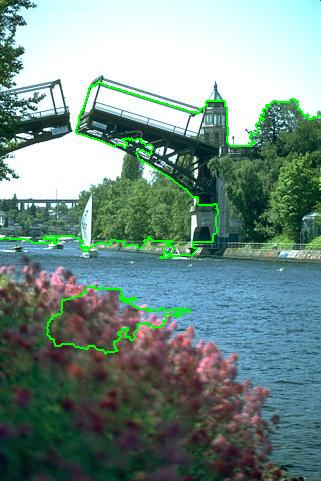
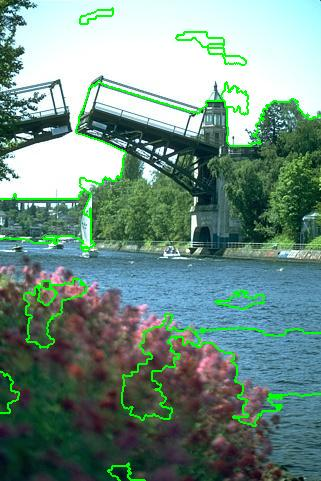
added fitness calculation

diff --git a/src/utils/Euclidian.java b/src/utils/Euclidian.java
@@ -2,6 +2,7 @@ package utils;
 
 import java.awt.Color;
 import java.util.ArrayList;
+import java.util.HashMap;
 import java.util.HashSet;
 import java.util.Iterator;
 import java.util.List;
@@ -11,11 +12,13 @@ public class Euclidian {
 	private int width;
 	private int height;
 	private Color[][] pixels;
+	private Color[] listPixels;
 	
-	public Euclidian(int width, int height, Color[][] pixels){
+	public Euclidian(int width, int height, Color[][] pixels, Color[] listPixels){
 		this.width = width;
 		this.height = height;
 		this.pixels = pixels;
+		this.listPixels = listPixels;
 	}
 	
 	public List<Integer> getNeighborNumbers(Integer gene){
@@ -56,6 +59,59 @@ public class Euclidian {
 		return edgeGenes;
 	}
 	
+	//returns both edge value and connectivity objectives//
+	//uses L = 4 for connectivity//
+	public float[] getSegEdgeAndConnValue(HashSet<Integer> segment, HashSet<Integer> edgeSet){
+		float[] segmentObjValues = new float[2];
+		for (Integer gene : edgeSet) {
+			int penalty = 0;
+			List<Integer> neighbors = getNeighborNumbers(gene);
+			for (Integer neighbor : neighbors) {
+				if(!segment.contains(neighbor)){
+					Color edgeColor = this.listPixels[gene];
+					Color neighborColor = this.listPixels[neighbor];
+					segmentObjValues[0] += getRGBEuclid(edgeColor, neighborColor);
+					penalty +=1;
+					segmentObjValues[1] += 1/penalty;
+				}
+			}
+		}
+		return segmentObjValues;
+	}
+	
+	public float getSegmentEdgeValue(HashSet<Integer> segment, HashSet<Integer> edgeSet){
+		float segmentEdgeValue = 0;
+		for (Integer gene : edgeSet) {
+			List<Integer> neighbors = getNeighborNumbers(gene);
+			for (Integer neighbor : neighbors) {
+				if(!segment.contains(neighbor)){
+					Color edgeColor = this.listPixels[gene];
+					Color neighborColor = this.listPixels[neighbor];
+					segmentEdgeValue += getRGBEuclid(edgeColor, neighborColor);
+				}
+			}
+		}
+		return segmentEdgeValue;
+	}
+	
+	public float[] getChromosomeEdgeAndConn(List<HashSet<Integer>> segments, HashMap<HashSet<Integer>, HashSet<Integer>> edgeMap){
+		float[] totObjValues = new float[2];
+		for (HashSet<Integer> segment : segments) {
+			float[] segValues = getSegEdgeAndConnValue(segment, edgeMap.get(segment));
+			totObjValues[0] += segValues[0];
+			totObjValues[1] += segValues[1];
+		}
+		return totObjValues;
+	}
+	
+	public float getChromosomeEdgeValue(List<HashSet<Integer>> segments, HashMap<HashSet<Integer>, HashSet<Integer>> edgeMap){
+		float totEdgeValue = 0;
+		for (HashSet<Integer> segment : segments) {
+			totEdgeValue += getSegmentEdgeValue(segment, edgeMap.get(segment));
+		}
+		return totEdgeValue;
+	}
+	
 	public static float getRGBEuclid(Color RGBone, Color RGBtwo){
 		
 		int rOne = RGBone.getRed();
@@ -67,12 +123,13 @@ public class Euclidian {
 		return (float)Math.sqrt(Math.pow((rTwo-rOne), 2) + Math.pow((gTwo-gOne),2) + Math.pow((bTwo-bOne),2));
 	}
 	
-	public float getRGBdeviation(HashSet<Integer> segment, Color centroid){
+	public float getSegmentRGBdeviation(HashSet<Integer> segment, Color centroid){
 		float deviation = 0;
 		for (Iterator<Integer> iterator = segment.iterator(); iterator.hasNext();) {
 			Integer integer = (Integer) iterator.next();
-			int[] coords = toGridCoords(integer);
-			deviation += getRGBEuclid(this.pixels[coords[0]][coords[1]],centroid);
+//			int[] coords = toGridCoords(integer);
+//			deviation += getRGBEuclid(this.pixels[coords[0]][coords[1]],centroid);
+			deviation += getRGBEuclid(listPixels[integer], centroid);
 		}
 		return deviation;
 	}
@@ -80,8 +137,10 @@ public class Euclidian {
 	public Color getRGBCentroid(HashSet<Integer> segment){
 		int[] RGBsums = new int[3];
 		for (Integer point : segment) {
-			int[] coords = toGridCoords(point);
-			Color pointCol = this.pixels[coords[0]][coords[1]];
+//			int[] coords = toGridCoords(point);
+//			Color pointCol = this.pixels[coords[0]][coords[1]];
+//			System.out.println(point);
+			Color pointCol = this.listPixels[point];
 			RGBsums[0] += pointCol.getRed();
 			RGBsums[1] += pointCol.getGreen();
 			RGBsums[2] += pointCol.getBlue();

diff --git a/src/mst/FileHandler.java b/src/mst/FileHandler.java
@@ -11,9 +11,10 @@ import javax.imageio.ImageIO;
 public class FileHandler {
 	
 	private Color [][] pixels;
+	private Color[] listPixels;
 	private int width;
 	private int height;
-	
+
 
 	public FileHandler(String filename) {
 		BufferedImage image = null;
@@ -21,8 +22,15 @@ public class FileHandler {
 	    	image = ImageIO.read(new File(filename+".jpg"));
 		    this.height = image.getHeight();
 		    this.width = image.getWidth();
-		    pixels = new Color[height][width];
+		    this.pixels = new Color[height][width];
+		    this.listPixels = new Color[height*width];
 		    setPixels(image);
+		    for (int i = 0; i < this.height; i++) {
+				for (int j = 0; j < this.width; j++) {
+					this.listPixels[i*this.width+j] = this.pixels[i][j];
+//					System.out.println(this.listPixels[i+j*i*this.width]);
+				}
+			}
 		    } catch (IOException e) {
 		    	System.err.println(e.getMessage());
 		    }
@@ -30,6 +38,10 @@ public class FileHandler {
 	
 	public Color[][] getPixels(){
 		return this.pixels;
+	}
+	
+	public Color[] getListPixels(){
+		return this.listPixels;
 	}
 	
 	public Color getRGB(int x, int y){
